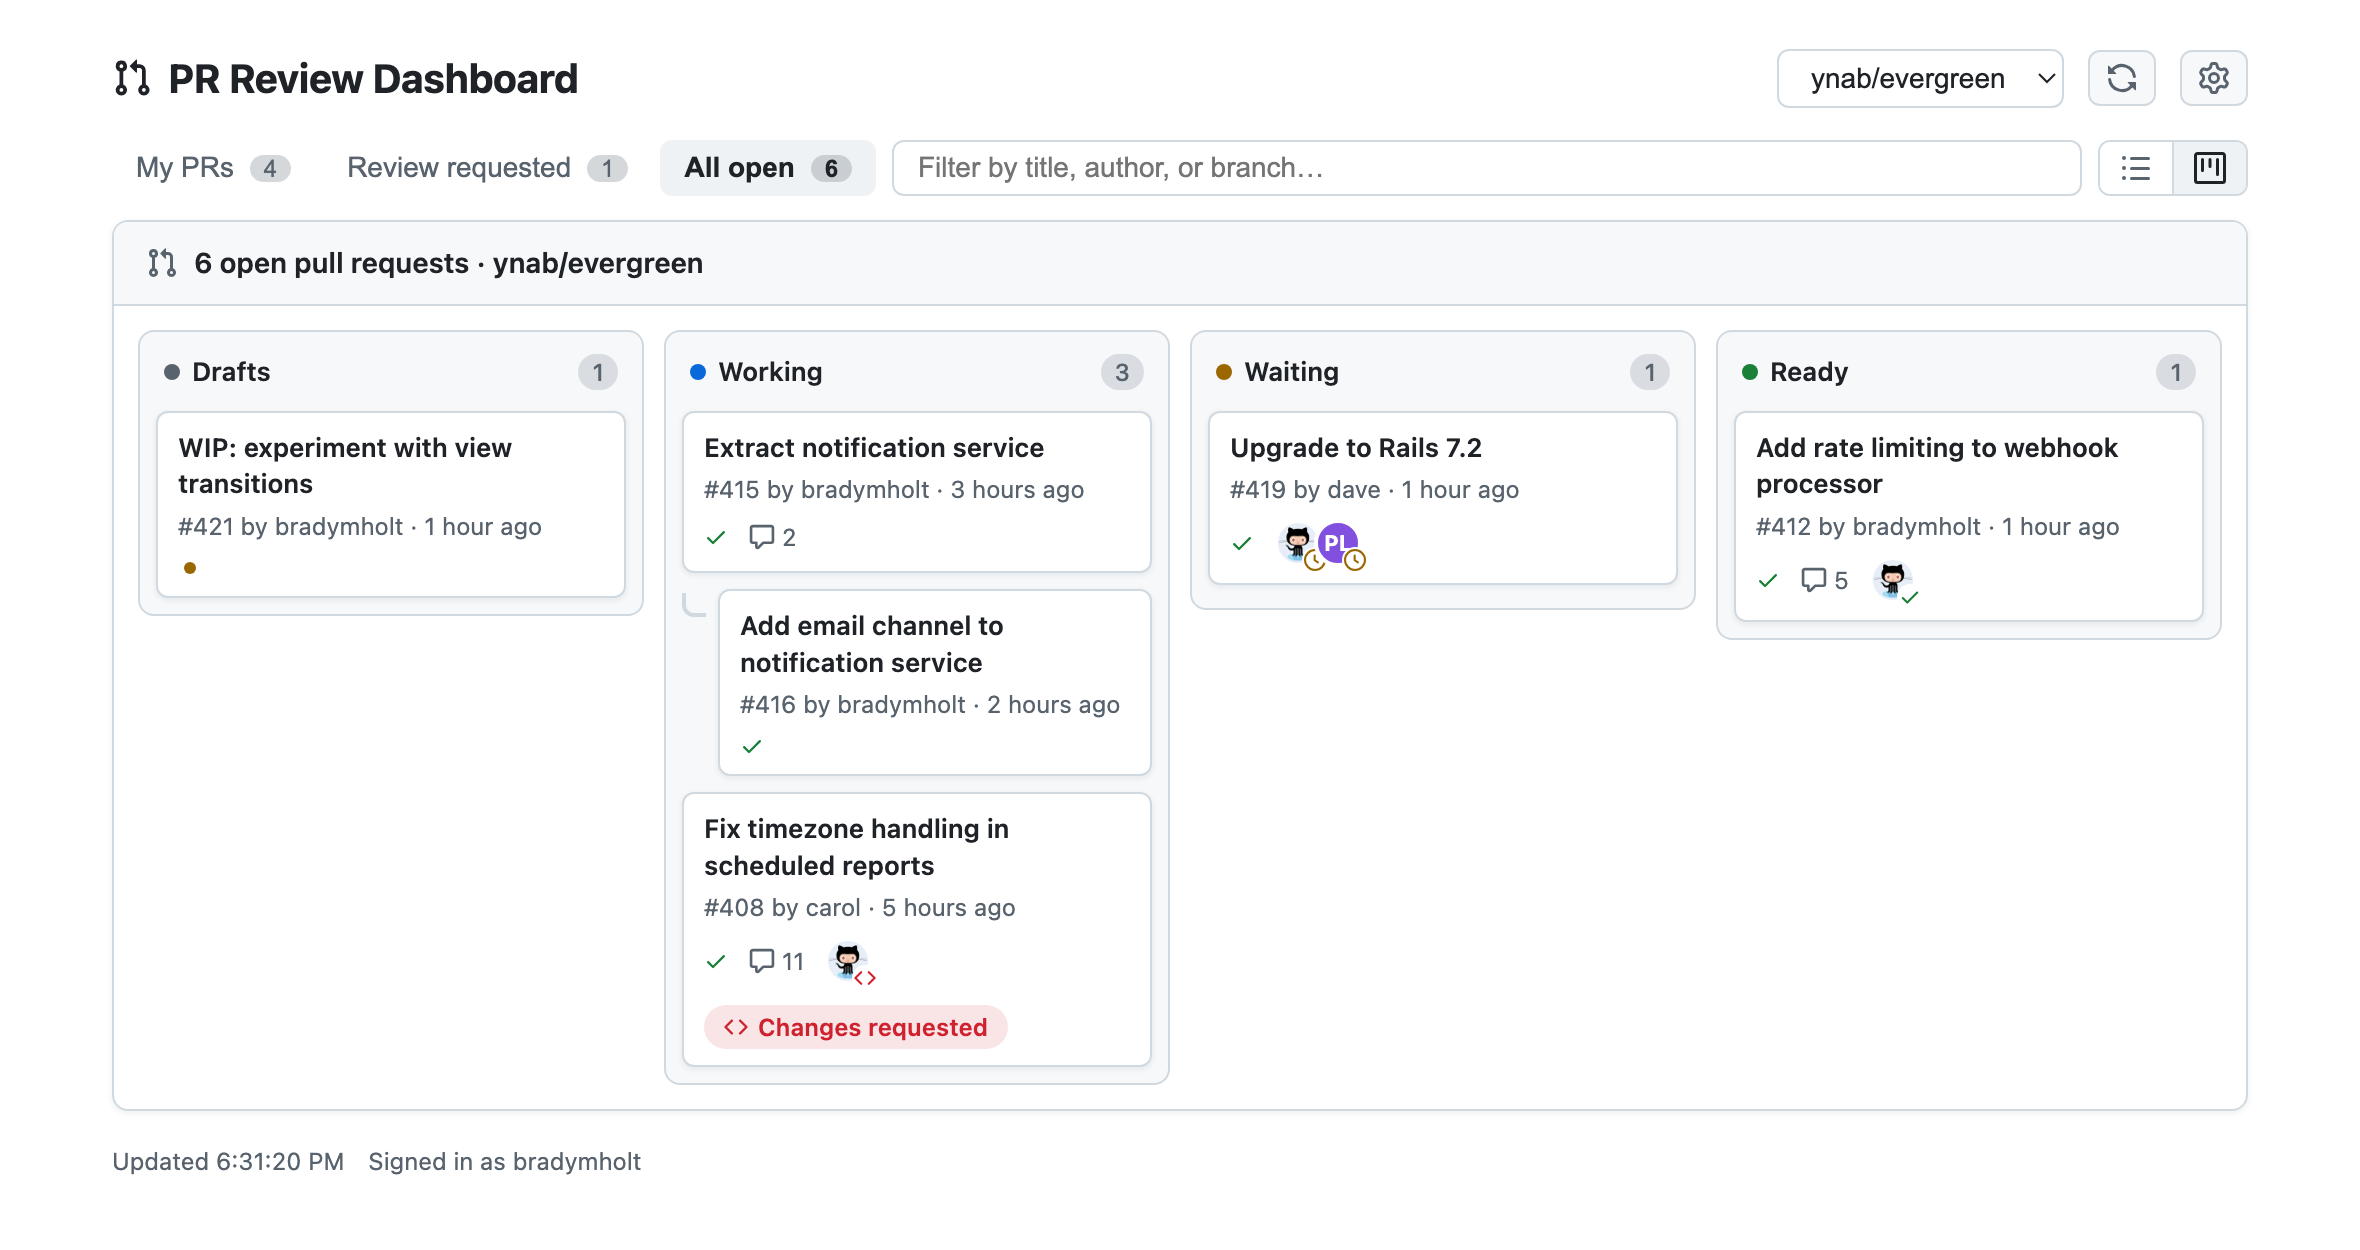
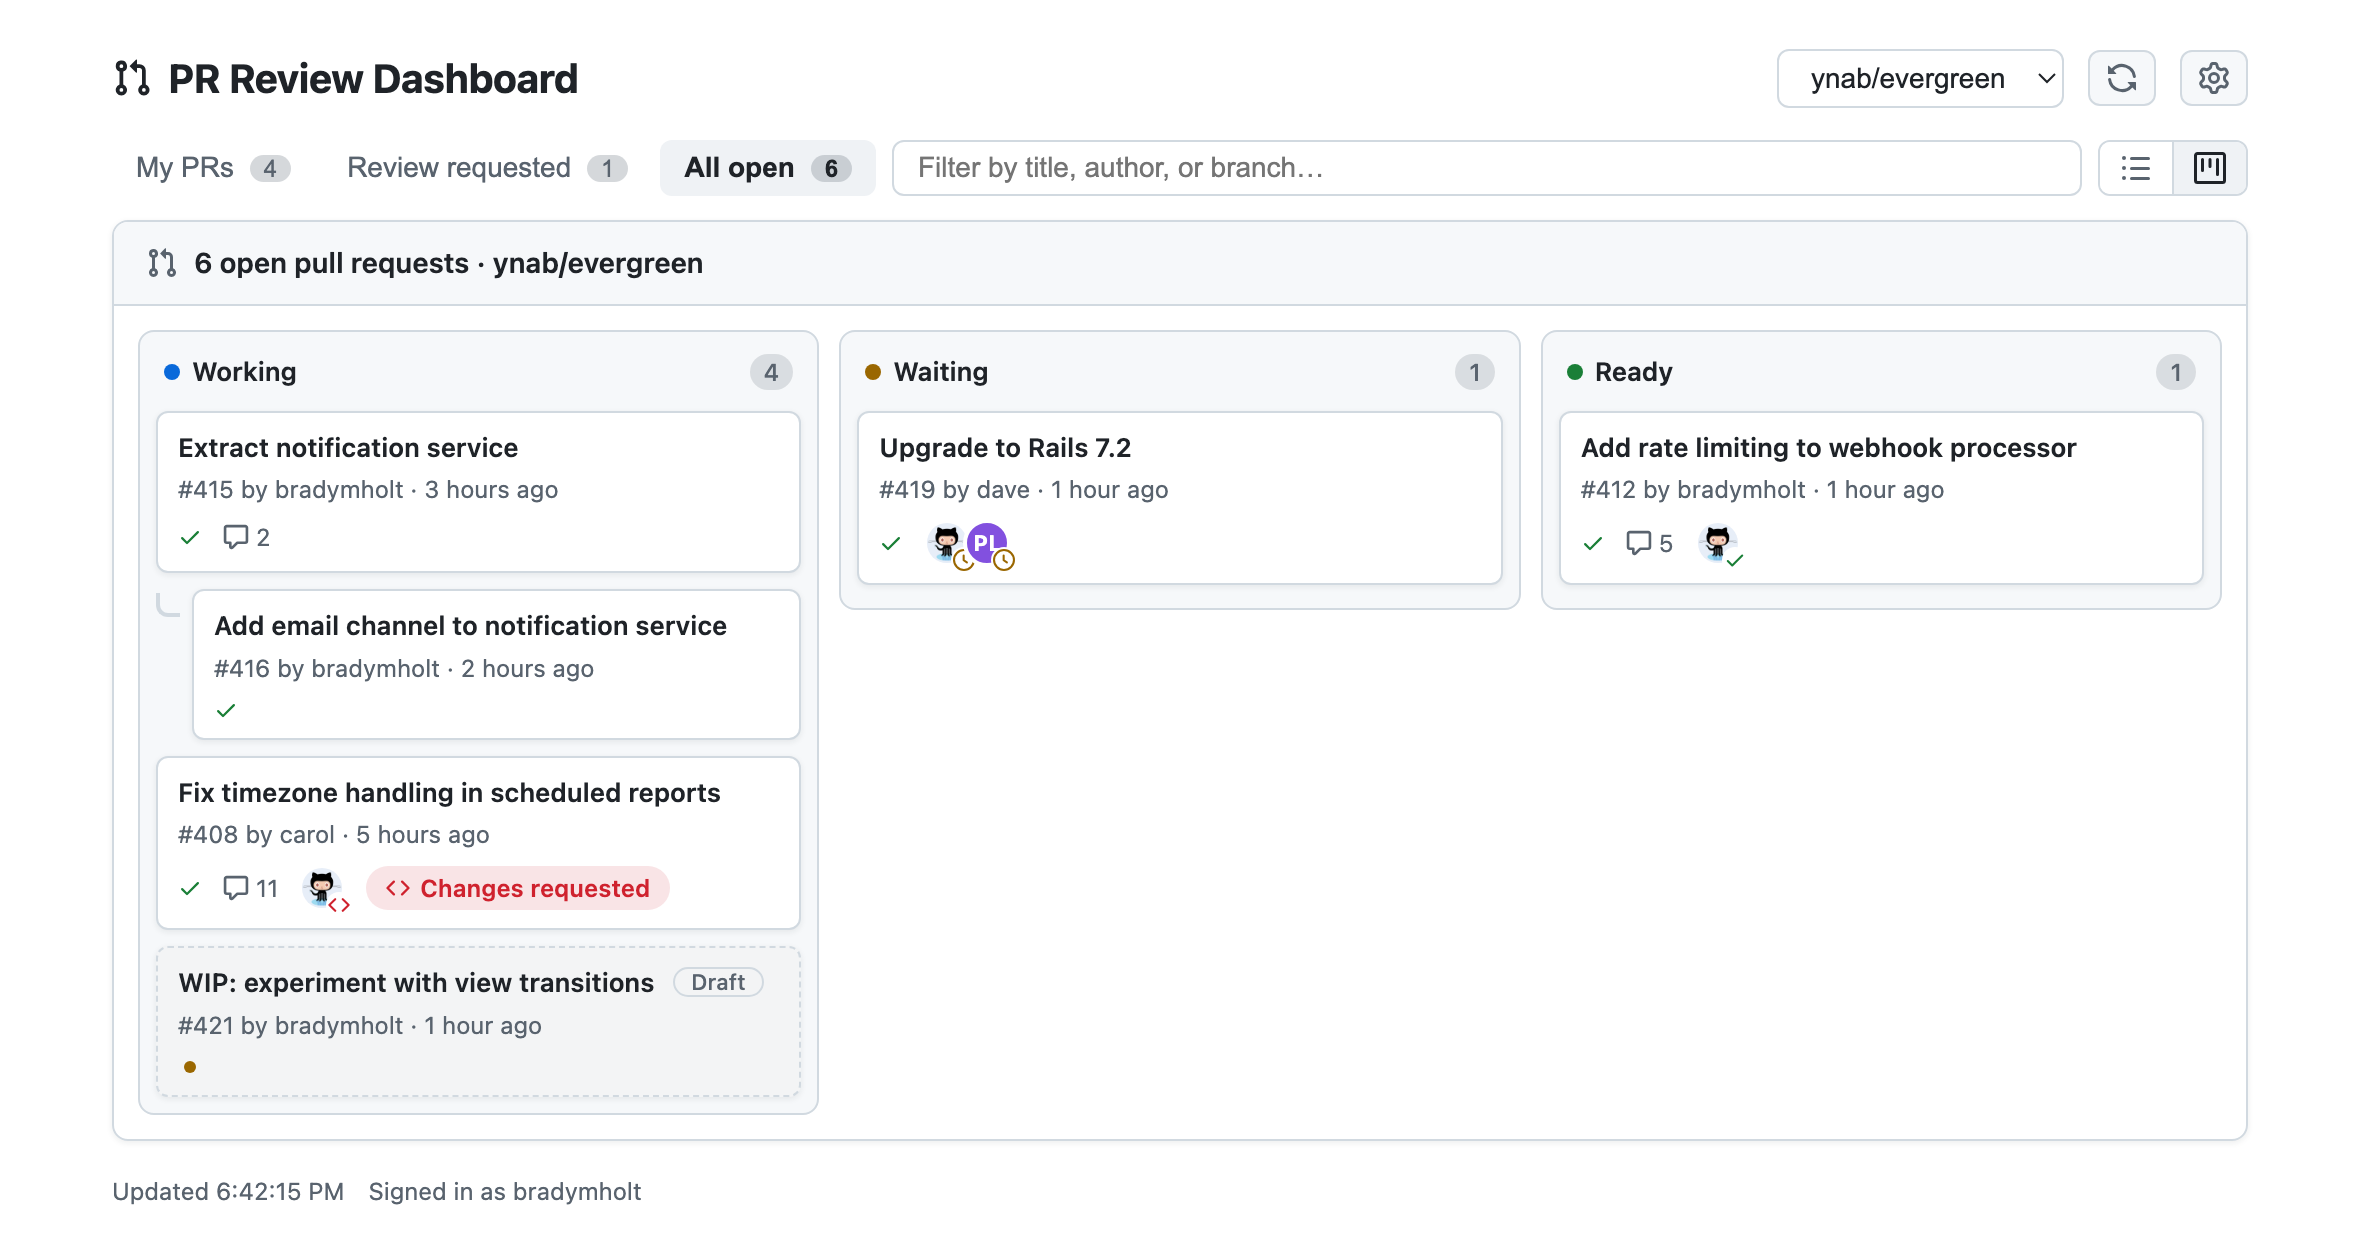
Fold drafts into Working lane
Remove the Drafts swim lane; draft PRs now appear in Working with a
dashed border, tinted background, and Draft pill.

diff --git a/index.html b/index.html
@@ -231,7 +231,7 @@
 
   .board {
     display: grid;
-    grid-template-columns: repeat(4, 1fr);
+    grid-template-columns: repeat(3, 1fr);
     gap: 10px;
     padding: 12px;
   }
@@ -260,6 +260,10 @@
     border-radius: 6px;
     padding: 8px 10px;
     box-shadow: var(--shadow);
+  }
+  .card.draft {
+    background: color-mix(in srgb, var(--fg-muted) 7%, var(--bg));
+    border-style: dashed;
   }
   .card-title { font-weight: 600; font-size: 13px; line-height: 1.4; }
   .card-meta { font-size: 12px; color: var(--fg-muted); margin-top: 3px; overflow-wrap: anywhere; }
@@ -645,12 +649,12 @@
     return { roots, children, parents };
   }
 
-  // Board lanes: 0 Drafts, 1 Working, 2 Waiting (on reviewer), 3 Ready (approved).
+  // Board lanes: 0 Working (incl. drafts), 1 Waiting (on reviewer), 2 Ready (approved).
   function laneOf(pr) {
     if (pr.isDraft) return 0;
-    if (pr.reviewDecision === "APPROVED") return 3;
-    if ((pr.reviewRequests?.nodes || []).length > 0) return 2;
-    return 1;
+    if (pr.reviewDecision === "APPROVED") return 2;
+    if ((pr.reviewRequests?.nodes || []).length > 0) return 1;
+    return 0;
   }
 
   function prCard(pr, parent) {
@@ -667,9 +671,10 @@
     const badge = pr.reviewDecision === "CHANGES_REQUESTED" || (pr.reviewDecision === "APPROVED" && !ciOk(pr))
       ? reviewBadge(pr)
       : "";
+    const draft = pr.isDraft ? ' <span class="draft-pill">Draft</span>' : "";
     return `
-      <div class="card">
-        <div class="card-title"><a href="${esc(pr.url)}" target="_blank" rel="noopener">${esc(pr.title)}</a></div>
+      <div class="card ${pr.isDraft ? "draft" : ""}">
+        <div class="card-title"><a href="${esc(pr.url)}" target="_blank" rel="noopener">${esc(pr.title)}</a>${draft}</div>
         <div class="card-meta">${repoPrefix}#${pr.number} by ${esc(pr.author?.login || "ghost")} · ${timeAgo(pr.updatedAt)}</div>
         <div class="card-icons">
           ${ciHtml(pr)}
@@ -716,9 +721,9 @@
       const { parents } = buildStacks(state.prs);
       const matches = state.prs.filter(matchesFilter);
       count = matches.length;
-      const laneItems = [[], [], [], []];
+      const laneItems = [[], [], []];
       for (const pr of matches) laneItems[laneOf(pr)].push(pr);
-      const defs = [["Drafts", "gray"], ["Working", "blue"], ["Waiting", "yellow"], ["Ready", "green"]];
+      const defs = [["Working", "blue"], ["Waiting", "yellow"], ["Ready", "green"]];
       html = '<div class="board">' + defs.map(([name, color], i) => {
         const inLane = laneItems[i];
         const laneNums = new Set(inLane.map((p) => p.number));

diff --git a/README.md b/README.md
@@ -14,7 +14,7 @@ Priority-sorted list with review status, reviewers, CI checks, and stacked PRs n
 
 ### Board view
 
-Swim lanes by PR state - Drafts, Working, Waiting (on a reviewer), and Ready (approved):
+Swim lanes by PR state - Working (drafts shown dashed), Waiting (on a reviewer), and Ready (approved):
 
 ![Board view](docs/board-view.png)
 
@@ -22,14 +22,14 @@ Swim lanes by PR state - Drafts, Working, Waiting (on a reviewer), and Ready (ap
 
 - **Views**: add any mix of repos (`owner/repo`), orgs, or usernames and switch between them
 - **List view**: GitHub-style list with review status, current reviewers (avatars with per-reviewer state), CI check status, labels, and comment counts
-- **Board view**: swim lanes — Drafts / Working / Waiting / Ready
+- **Board view**: swim lanes for Working / Waiting / Ready, with drafts styled distinctly in Working
 - **Stacked PRs**: PRs based on another open PR's branch are nested under their parent in both views
 - **Priority sort**: ready-to-merge first, then actionable-by-author, then needs-reviewer, awaiting-review last
 - **Filters**: My PRs / Review requested / All open tabs, plus text filter across title, author, branch, and repo
 
 ## Setup
 
-Open the page, click the gear icon, and paste a GitHub personal access token — classic with `repo` scope, or fine-grained with Pull requests: read access. The token is stored only in your browser's localStorage and is sent only to `api.github.com`.
+Open the page, click the gear icon, and paste a GitHub personal access token - classic with `repo` scope, or fine-grained with Pull requests: read access. The token is stored only in your browser's localStorage and is sent only to `api.github.com`.
 
 ## Development
 